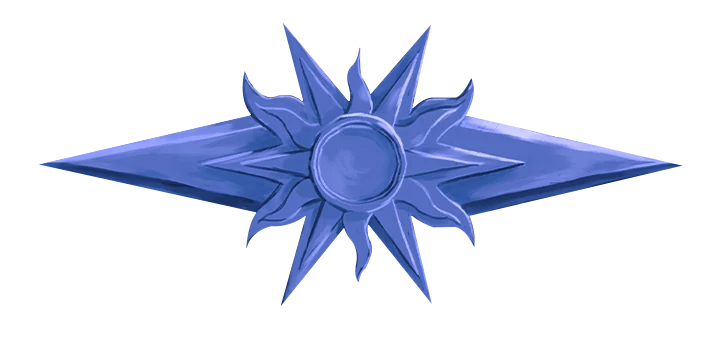
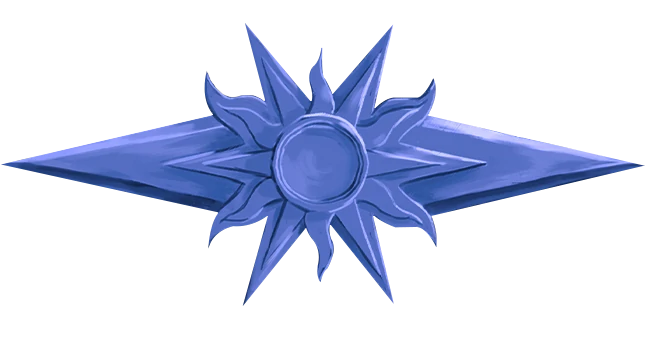
pod tablety

Changed region(s): [[0.0, 0.059, 1.0, 0.9145]]

diff --git a/src/Components/How_To_Play_Section.jsx b/src/Components/How_To_Play_Section.jsx
@@ -38,7 +38,7 @@ const How_To_Play_Section = () => {
 
       {/* EMBLEMAT */}
       <div className="text-center flex justify-center items-center !my-12 !mx-4">
-        <img src={emblemat} alt="Robot Emblemat image" />
+        <img className="md:w-3/4" src={emblemat} alt="Robot Emblemat image" />
       </div>
 
       {/* MINIATURA Z PRZYCISKIEM */}
@@ -69,22 +69,22 @@ const How_To_Play_Section = () => {
       {/* TYTUŁ + IKONY */}
       <div className="!my-12">
         <div className="w-full flex flex-col justify-center items-center">
-          <h1 className="text-5xl text-[#b9935b] kranky-regular">HOW TO PLAY</h1>
+          <h1 className="text-5xl text-[#b9935b] kranky-regular md:text-7xl">HOW TO PLAY</h1>
           <div className="flex !mt-4 !ml-4">
             <div className="flex">
-              <img className="w-6" src={ra} alt="ra image" />
-              <img className="w-6" src={ra} alt="ra image" />
-              <img className="w-6" src={ra} alt="ra image" />
+              <img className="w-6 md:w-8" src={ra} alt="ra image" />
+              <img className="w-6 md:w-8" src={ra} alt="ra image" />
+              <img className="w-6 md:w-8" src={ra} alt="ra image" />
             </div>
             <div className="flex !mx-10">
-              <img className="w-6" src={ra} alt="ra image" />
-              <img className="w-6" src={ra} alt="ra image" />
+              <img className="w-6 md:w-8" src={ra} alt="ra image" />
+              <img className="w-6 md:w-8" src={ra} alt="ra image" />
             </div>
             <div className="flex">
-              <img className="w-6" src={ra} alt="ra image" />
-              <img className="w-6" src={ra} alt="ra image" />
-              <img className="w-6" src={ra} alt="ra image" />
-              <img className="w-6" src={ra} alt="ra image" />
+              <img className="w-6 md:w-8" src={ra} alt="ra image" />
+              <img className="w-6 md:w-8" src={ra} alt="ra image" />
+              <img className="w-6 md:w-8" src={ra} alt="ra image" />
+              <img className="w-6 md:w-8" src={ra} alt="ra image" />
             </div>
           </div>
         </div>
@@ -92,7 +92,7 @@ const How_To_Play_Section = () => {
 
       {/* OPIS */}
       <div className="!my-12">
-        <p className="text-[#b9935b] text-lg !px-12 text-center">
+        <p className="text-[#b9935b] text-lg !px-12 text-center md:text-2xl md:!px-30">
         This is a strategic game where players embody themselves as leaders of powerful factions. Gather resources, create new tactics, and uncover magical secrets. Fight against your enemies and free your people from tyranny.
         </p>
       </div>

diff --git a/src/Components/Trailer_Section.jsx b/src/Components/Trailer_Section.jsx
@@ -38,7 +38,7 @@ const Trailer_Section = () => {
 
       {/* EMBLEMAT */}
       <div className="text-center flex justify-center items-center !my-12">
-        <img src={emblemat} alt="Robot Emblemat image" />
+        <img className="md:w-3/4" src={emblemat} alt="Robot Emblemat image" />
       </div>
 
       {/* MINIATURA Z PRZYCISKIEM */}
@@ -69,10 +69,10 @@ const Trailer_Section = () => {
       {/* TYTUŁ + IKONY */}
       <div className="!my-12">
         <div className="w-full flex flex-col justify-center items-center">
-          <h1 className="text-5xl text-[#4F81FF] kranky-regular">TRAILER</h1>
+          <h1 className="text-5xl text-[#4F81FF] kranky-regular md:text-8xl">TRAILER</h1>
           <div className="flex !ml-30 !mt-4">
             {[...Array(7)].map((_, i) => (
-              <img key={i} className="w-6" src={ra} alt="ra image" />
+              <img key={i} className="w-6 md:w-10" src={ra} alt="ra image" />
             ))}
           </div>
         </div>
@@ -80,7 +80,7 @@ const Trailer_Section = () => {
 
       {/* OPIS */}
       <div className="!my-12">
-        <p className="text-[#4F81FF] text-lg !px-12 text-center">
+        <p className="text-[#4F81FF] text-lg !px-12 text-center md:text-2xl md:!px-30">
           In the endless and desolate deserts of the world, the god Abyss reigns, surrounded by darkness and mystery. It's a place where magic blends with reality, creating a land full of dangers and surprises.
         </p>
       </div>

diff --git a/src/Components/GameElements.jsx b/src/Components/GameElements.jsx
@@ -16,9 +16,9 @@ const GameElements = () => {
             <div className='absolute top-1/2 left-1/2 -translate-x-1/2 -translate-y-1/2 -z-10' style={glowStyle}></div>
             <img src={Blur} className='absolute top-1/2 left-1/2 -translate-x-1/2 -translate-y-1/2 -z-10 blur-xs' alt='Blured Abyss' />
         </div>
-        <div className="w-full bg-[#4F81FF]/8 border-y-1 border-[#3971FF]/25 border-opacity-100 rounded-[20px] !px-6 !pb-8 text-white flex flex-col">
-            <h2 className="text-center text-2xl font-serif !py-8">Game Elements</h2>
-            <div className="flex gap-4 text-sm justify-between text-lg">
+        <div className="w-full bg-[#4F81FF]/8 border-y-1 border-[#3971FF]/25 border-opacity-100 rounded-[20px] !px-6 !pb-8 text-white flex flex-col md:!my-6 md:rounded-[60px] md:!pb-12">
+            <h2 className="text-center text-2xl font-serif !py-8 md:text-5xl md:!py-16">Game Elements</h2>
+            <div className="flex gap-4 text-sm justify-between text-lg md:text-xl !pb-8 md:justify-center md:gap-30">
                 <ul className="flex flex-col space-y-1 text-left">
                     <li>• 4 Pieces of Main Board</li>
                     <li>• 4 Lord Standees</li>

diff --git a/src/Components/QuickInfo.jsx b/src/Components/QuickInfo.jsx
@@ -4,18 +4,18 @@ import { PiUsersThree } from "react-icons/pi";
 import { IoMdTime } from "react-icons/io";
 const QuickInfo = () => {
   return (
-<div className='w-full flex justify-between text-white !px-8 !mt-8'>
+<div className='w-full flex justify-between md:justify-around text-white !px-8 !mt-8 md:!my-12'>
         <div className='flex flex-col items-center'>
-            <PiUserBold className='text-[3rem]' />
-            <h1>+14</h1>
+            <PiUserBold className='text-[3rem] md:text-[4rem]' />
+            <h1 className='md:text-lg'>+14</h1>
         </div>
         <div className='flex flex-col items-center'>
-            <PiUsersThree className='text-[3rem]' />
-            <h1>2-4</h1>
+            <PiUsersThree className='text-[3rem] md:text-[4rem]' />
+            <h1 className='md:text-lg'>2-4</h1>
         </div>
         <div className='flex flex-col items-center'>
-            <IoMdTime className='text-[3rem]' />
-            <h1>90min</h1>
+            <IoMdTime className='text-[3rem] md:text-[4rem]' />
+            <h1 className='md:text-lg'>90min</h1>
         </div>
     </div>
   )

diff --git a/src/Components/NavUl.jsx b/src/Components/NavUl.jsx
@@ -8,7 +8,7 @@ const NavUl = ({ menuOpen }) => {
 
   return (
     <>
-      <ul className="w-full h-full flex flex-col md:flex-row justify-center md:justify-end items-center gap-8 md:gap-2 text-3xl text-white">
+      <ul className="w-full h-full flex flex-col xl:flex-row justify-center xl:justify-end items-center gap-8 text-3xl md:text-4xl text-white">
         {liMenu.map((item) => (
           <li key={item.name}>
             <a
@@ -18,7 +18,6 @@ const NavUl = ({ menuOpen }) => {
               className="underlineText flex"
             >
               {item.name}
-              {item.span && <span className="hidden md:block ml-2">|</span>}
             </a>
           </li>
         ))}

diff --git a/src/Components/DesktopNav.jsx b/src/Components/DesktopNav.jsx
@@ -17,7 +17,7 @@ const DesktopNav = () => {
     });
   });
   return (
-    <nav className="hidden fixed top-0 left-0 md:block z-50">
+    <nav className="hidden fixed top-0 left-0 xl:block z-50">
       <div className="navbar flex w-screen h-36 px-10 bg-light dark:bg-dark transition-transform duration-300">
         <Icons menuOpen={menuOpen} />
         <NavUl menuOpen={menuOpen} />

diff --git a/src/Components/MobileNav.jsx b/src/Components/MobileNav.jsx
@@ -26,7 +26,7 @@ const MobileNav = () => {
   }
 
   return (
-    <nav className="md:hidden">
+    <nav className="xl:hidden">
       <div className="fixed top-0 left-0 w-screen h-16 bg-black/15 backdrop-blur-sm z-40">
         <button
           aria-label="Logo"
